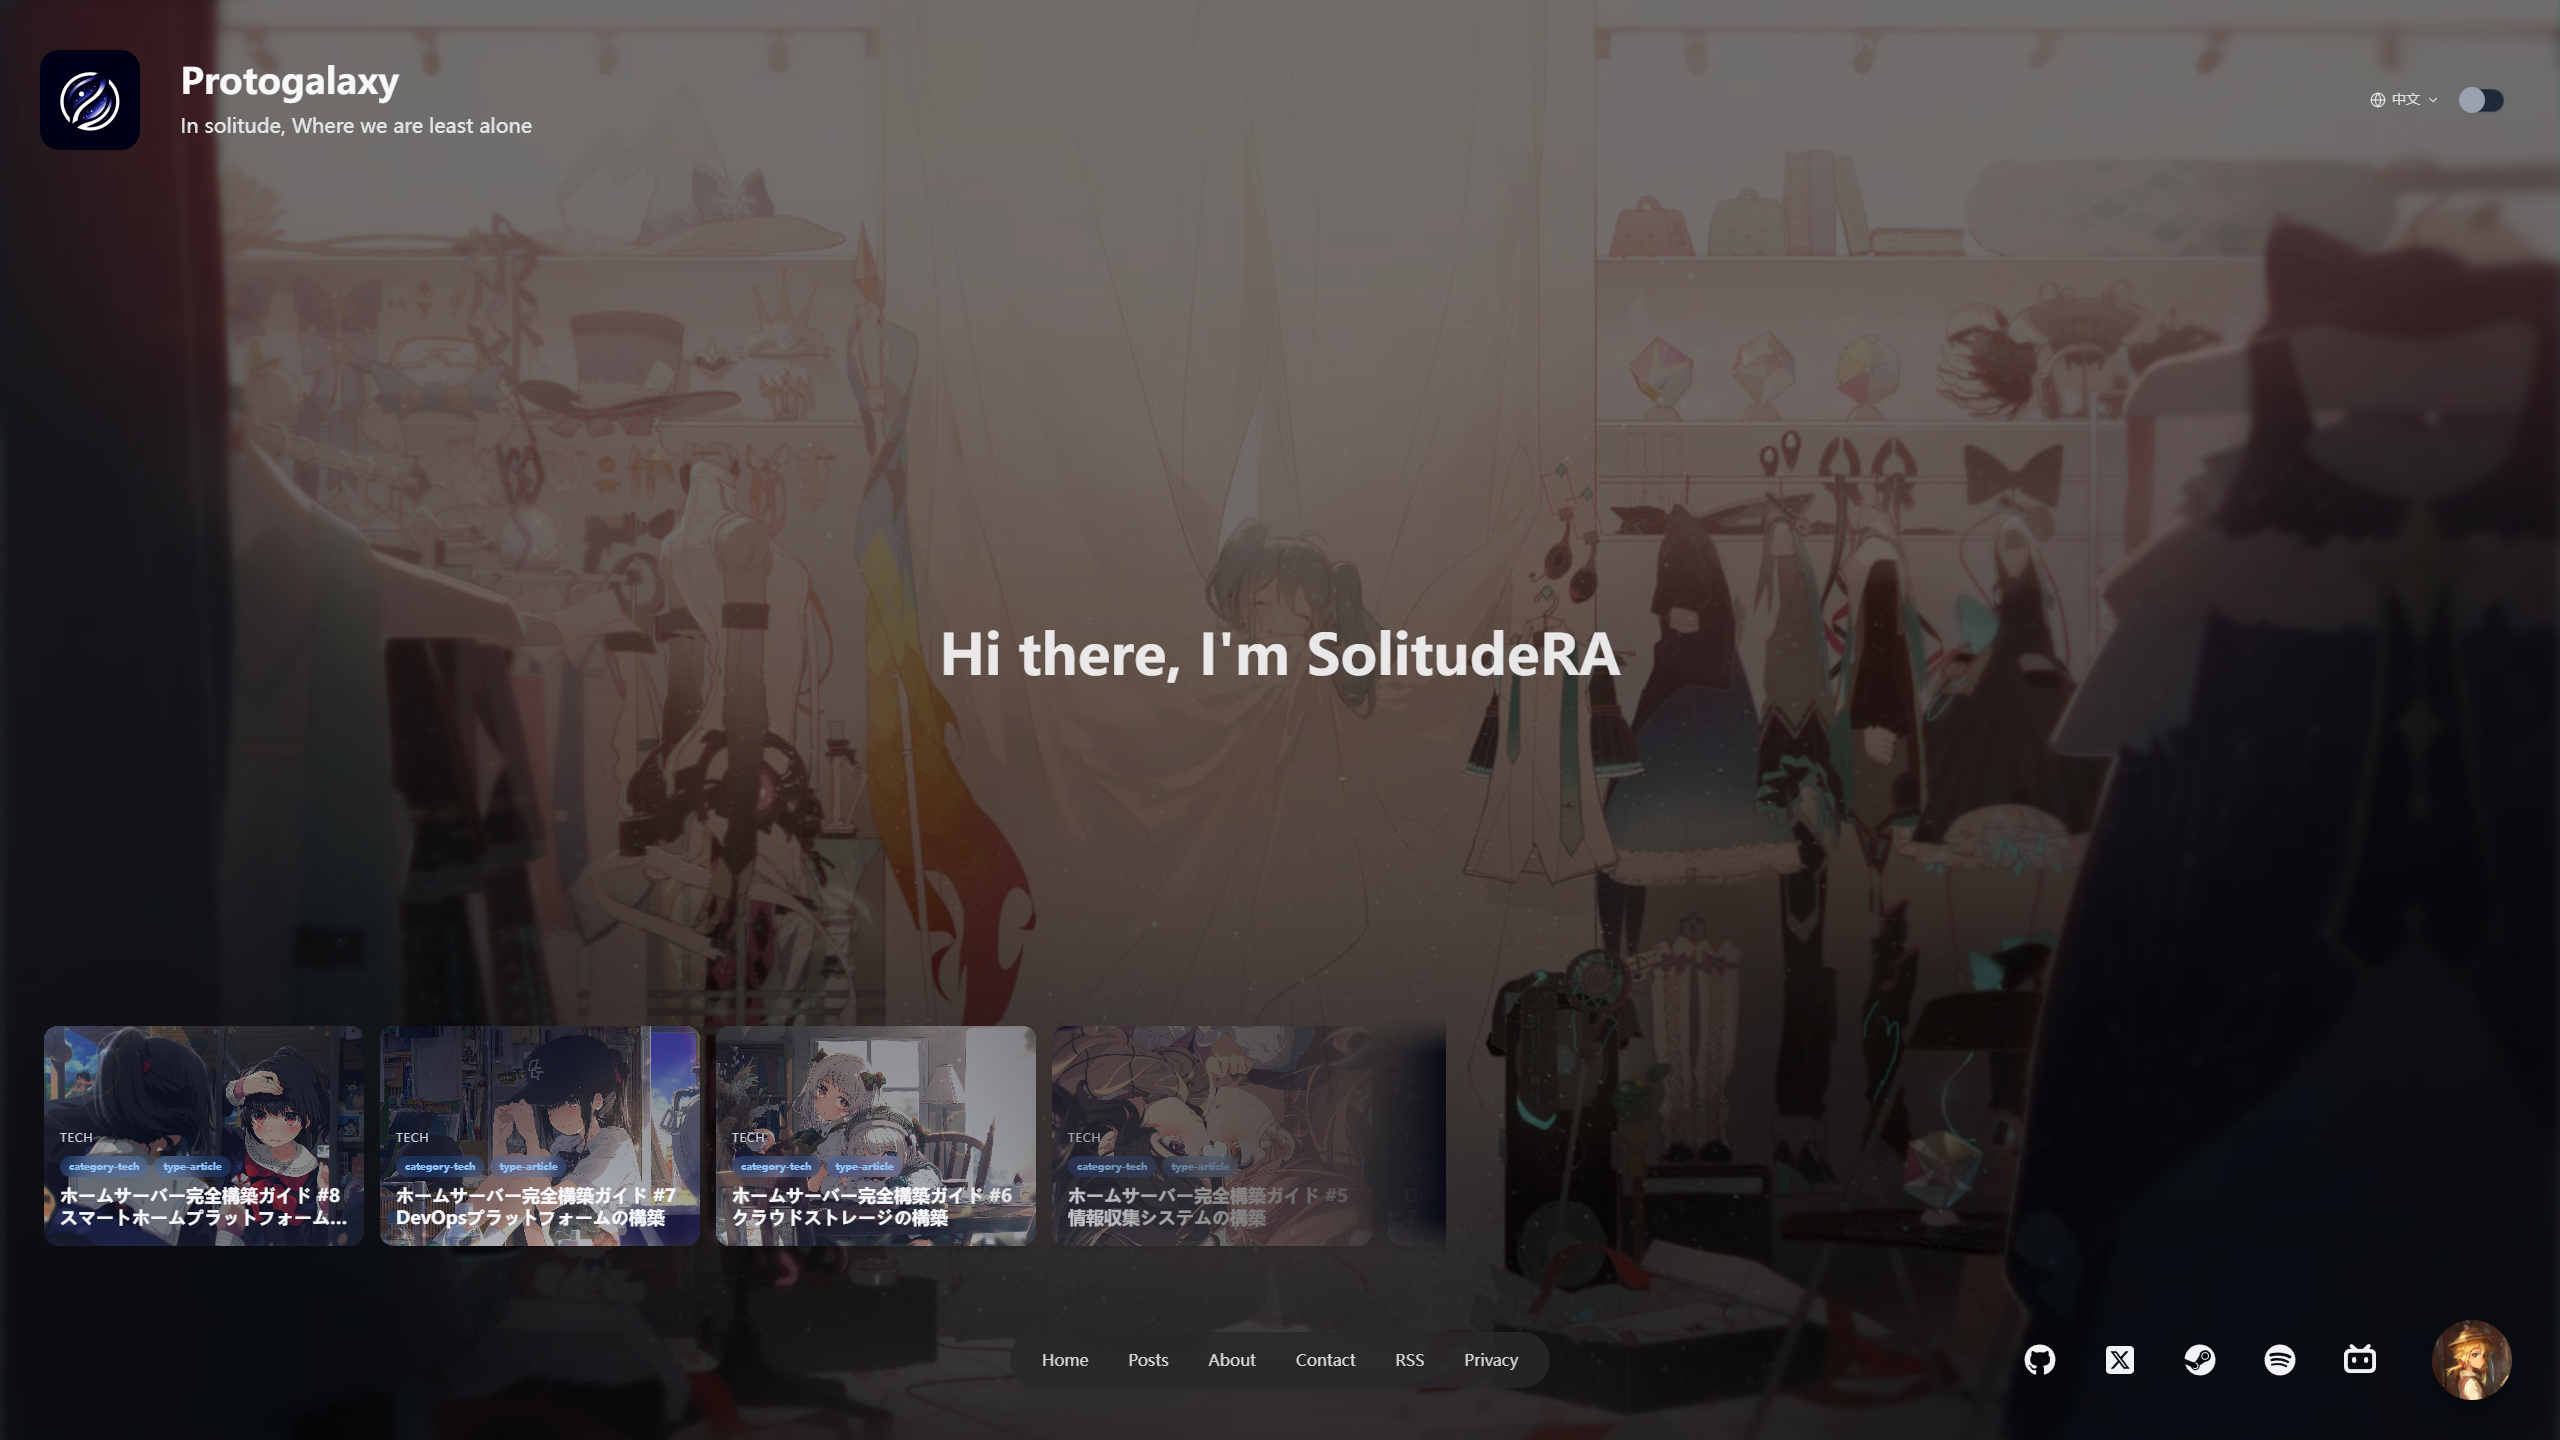
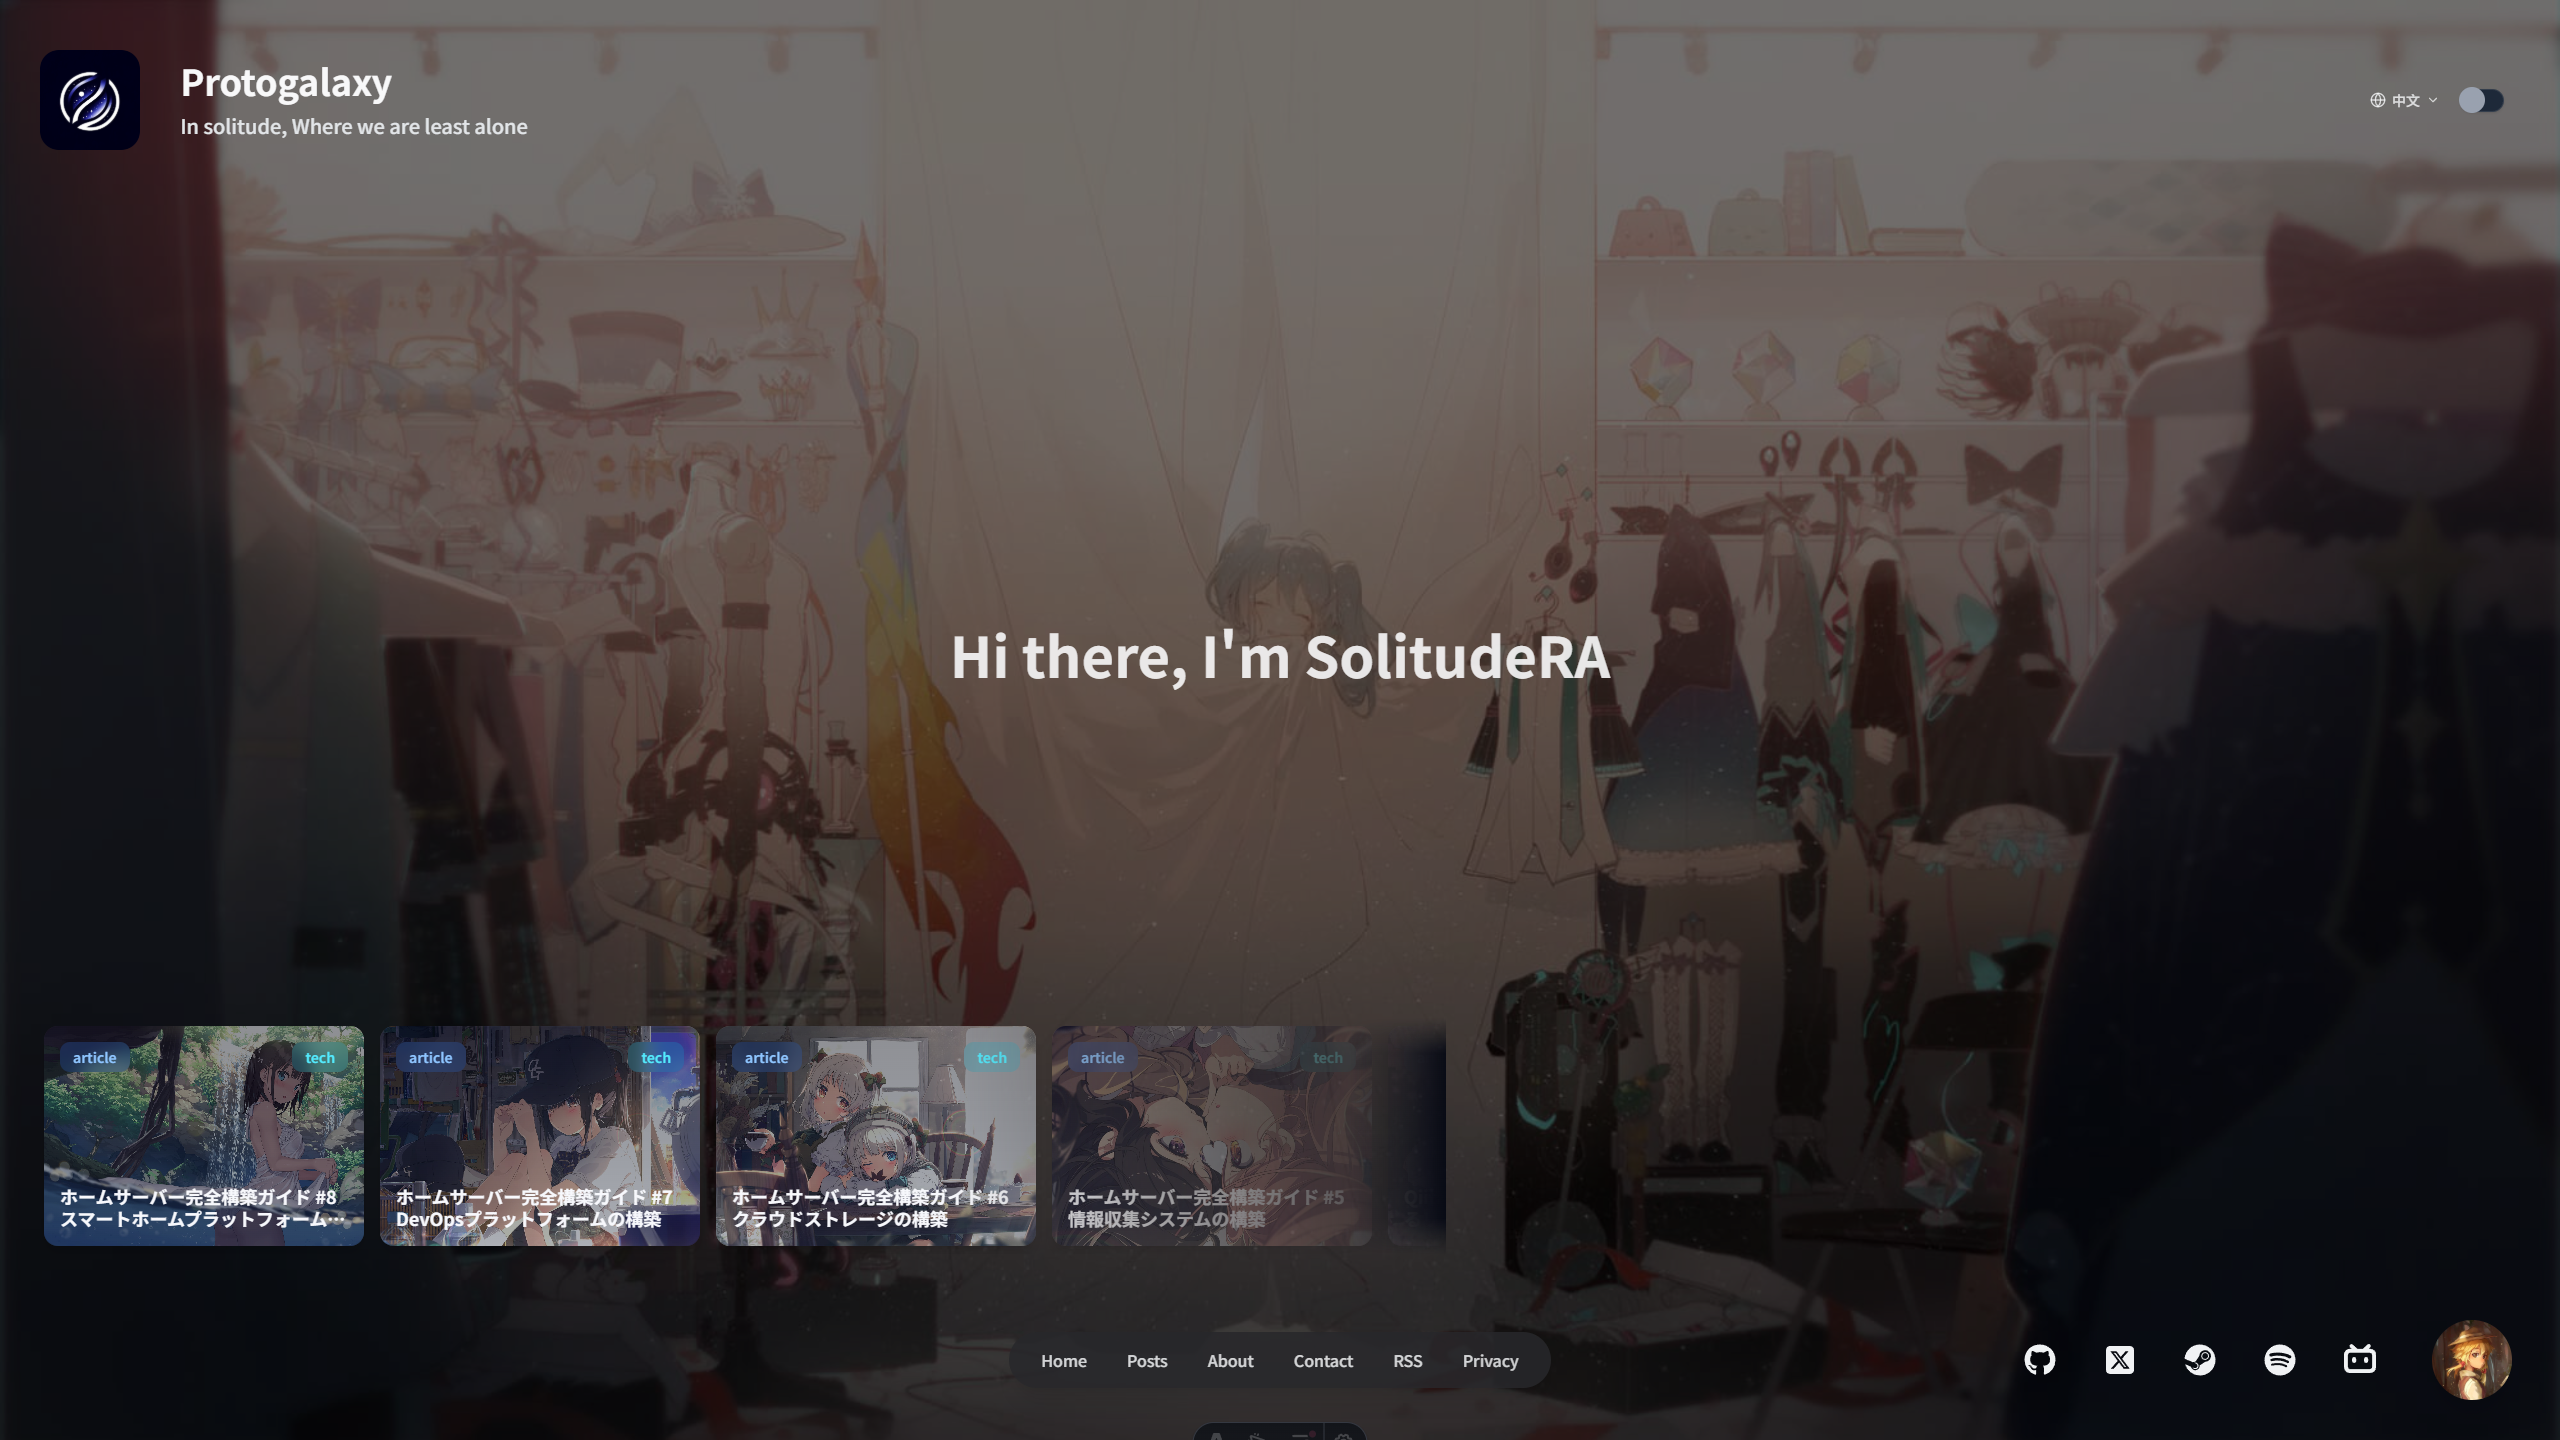
refactor(home, post-view): update design

diff --git a/src/components/home/PostsShowcaseCarousel.tsx b/src/components/home/PostsShowcaseCarousel.tsx
@@ -2,9 +2,44 @@ import * as React from 'react';
 import { useRef, useState, useEffect, useCallback } from 'react';
 import { motion, AnimatePresence } from 'motion/react';
 import { ChevronLeft, ChevronRight, ArrowRight } from 'lucide-react';
-import type { FeaturedPost, PostTag } from '@api/ghost/types';
+import type { FeaturedPost } from '@api/ghost/types';
 import { Chip } from '@components/common/badge';
 import { cn } from '@components/common/lib/utils';
+
+// 颜色方案类型（与 badge.tsx 保持一致）
+type ChipColorScheme =
+    | 'default'
+    | 'primary'
+    | 'secondary'
+    | 'success'
+    | 'warning'
+    | 'info'
+    | 'purple'
+    | 'rose';
+
+// Type 配置：不同文章类型使用不同颜色
+const DEFAULT_TYPE_CONFIG = {
+    colorScheme: 'secondary' as ChipColorScheme,
+};
+
+const TYPE_CONFIG: Record<string, { colorScheme: ChipColorScheme }> = {
+    article: { colorScheme: 'primary' }, // 蓝色 - 经典、专业
+    gallery: { colorScheme: 'purple' }, // 紫色 - 艺术、创意
+    video: { colorScheme: 'rose' }, // 玫红 - 热情、动感
+    music: { colorScheme: 'warning' }, // 琥珀 - 温暖、活力
+    default: DEFAULT_TYPE_CONFIG,
+};
+
+// Category 配置：不同分类使用不同颜色
+const DEFAULT_CATEGORY_CONFIG = {
+    colorScheme: 'secondary' as ChipColorScheme,
+};
+
+const CATEGORY_CONFIG: Record<string, { colorScheme: ChipColorScheme }> = {
+    tech: { colorScheme: 'info' }, // 青色 - 科技感
+    life: { colorScheme: 'success' }, // 绿色 - 生活、自然
+    default: DEFAULT_CATEGORY_CONFIG,
+};
 
 interface PostsShowcaseCarouselProps {
     posts: FeaturedPost[];
@@ -37,16 +72,14 @@ function ShowcaseCard({
     const hasImage =
         post.feature_image && post.feature_image.toString().length > 0;
 
-    // 获取要显示的标签（最多3个，排除系统标签）
-    const displayTags = React.useMemo(() => {
-        if (!post.tags || post.tags.length === 0) return [];
-        return post.tags
-            .filter((tag: PostTag) => !tag.slug?.startsWith('hash-'))
-            .slice(0, 3);
-    }, [post.tags]);
+    // 获取 type 配置
+    const typeKey = post.post_type?.toLowerCase() || 'default';
+    const typeConfig = TYPE_CONFIG[typeKey] ?? DEFAULT_TYPE_CONFIG;
 
-    // 分类（primary_tag 或 post_category）
-    const category = post.primary_tag?.name || post.post_category || null;
+    // 获取 category 配置
+    const categoryKey = post.post_category?.toLowerCase() || 'default';
+    const categoryConfig =
+        CATEGORY_CONFIG[categoryKey] ?? DEFAULT_CATEGORY_CONFIG;
 
     return (
         <motion.a
@@ -112,36 +145,32 @@ function ShowcaseCard({
             />
 
             {/* 内容区域 */}
-            <div className="absolute inset-0 flex flex-col justify-end p-4">
-                {/* 分类标签 */}
-                {category && (
-                    <div className="mb-2">
-                        <span
-                            className="text-xs font-medium tracking-wider uppercase"
-                            style={{ color: 'var(--post-view-card-meta)' }}
+            <div className="absolute inset-0 flex flex-col justify-between p-4">
+                {/* 顶部标签区 - 与 BaseCard 保持一致 */}
+                <div className="flex items-center justify-between">
+                    {/* 左上角：Type 标签 */}
+                    {post.post_type && (
+                        <Chip
+                            variant="flat"
+                            colorScheme={typeConfig.colorScheme}
+                            className="backdrop-blur-sm"
                         >
-                            {category}
-                        </span>
-                    </div>
-                )}
+                            {post.post_type}
+                        </Chip>
+                    )}
+                    {/* 右上角：Category 标签 */}
+                    {post.post_category && (
+                        <Chip
+                            variant="flat"
+                            colorScheme={categoryConfig.colorScheme}
+                            className="backdrop-blur-sm"
+                        >
+                            {post.post_category}
+                        </Chip>
+                    )}
+                </div>
 
-                {/* 标签 Pills */}
-                {displayTags.length > 0 && (
-                    <div className="mb-2 flex flex-wrap gap-1.5">
-                        {displayTags.map((tag: PostTag) => (
-                            <Chip
-                                key={tag.id}
-                                variant="flat"
-                                colorScheme="primary"
-                                className="px-2 py-0.5 text-[10px] backdrop-blur-sm"
-                            >
-                                {tag.name}
-                            </Chip>
-                        ))}
-                    </div>
-                )}
-
-                {/* 标题 */}
+                {/* 底部：标题 */}
                 <h3
                     className={cn(
                         'text-lg leading-tight font-bold',
@@ -178,12 +207,13 @@ function SkeletonCard({ index }: { index: number }) {
             )}
             style={{ animationDelay: `${index * 100}ms` }}
         >
-            <div className="flex h-full flex-col justify-end p-4">
-                <div className="bg-muted-foreground/20 mb-2 h-3 w-16 rounded" />
-                <div className="mb-2 flex gap-1.5">
-                    <div className="bg-muted-foreground/20 h-5 w-12 rounded-full" />
-                    <div className="bg-muted-foreground/20 h-5 w-16 rounded-full" />
+            <div className="flex h-full flex-col justify-between p-4">
+                {/* 顶部标签占位 */}
+                <div className="flex items-center justify-between">
+                    <div className="bg-muted-foreground/20 h-6 w-20 rounded-full" />
+                    <div className="bg-muted-foreground/20 h-6 w-16 rounded-full" />
                 </div>
+                {/* 底部标题占位 */}
                 <div className="space-y-2">
                     <div className="bg-muted-foreground/20 h-5 w-full rounded" />
                     <div className="bg-muted-foreground/20 h-5 w-3/4 rounded" />

diff --git a/src/components/common/badge.tsx b/src/components/common/badge.tsx
@@ -4,7 +4,7 @@ import { cva, type VariantProps } from 'class-variance-authority';
 import { cn } from '@components/common/lib/utils';
 
 const badgeVariants = cva(
-    'inline-flex items-center rounded-full border px-2.5 py-0.5 text-xs font-semibold transition-colors focus:outline-none focus:ring-2 focus:ring-ring focus:ring-offset-2',
+    'inline-flex items-center rounded-lg border px-3 py-1 text-sm font-semibold transition-colors focus:outline-none focus:ring-2 focus:ring-ring focus:ring-offset-2',
     {
         variants: {
             variant: {
@@ -22,6 +22,10 @@ const badgeVariants = cva(
                 primary: 'bg-blue-500/20 text-blue-700 dark:text-blue-300',
                 secondary: 'bg-gray-500/20 text-gray-700 dark:text-gray-300',
                 success: 'bg-green-500/20 text-green-700 dark:text-green-300',
+                warning: 'bg-amber-500/20 text-amber-700 dark:text-amber-300',
+                info: 'bg-cyan-500/20 text-cyan-700 dark:text-cyan-300',
+                purple: 'bg-purple-500/20 text-purple-700 dark:text-purple-300',
+                rose: 'bg-rose-500/20 text-rose-700 dark:text-rose-300',
             },
         },
         defaultVariants: {
